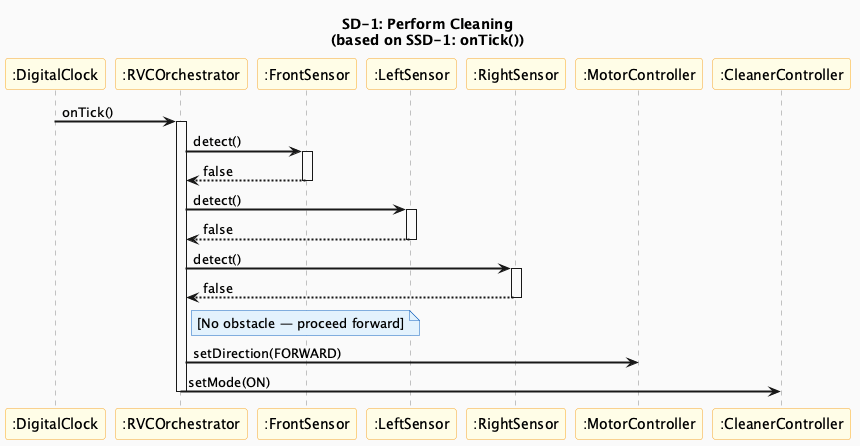
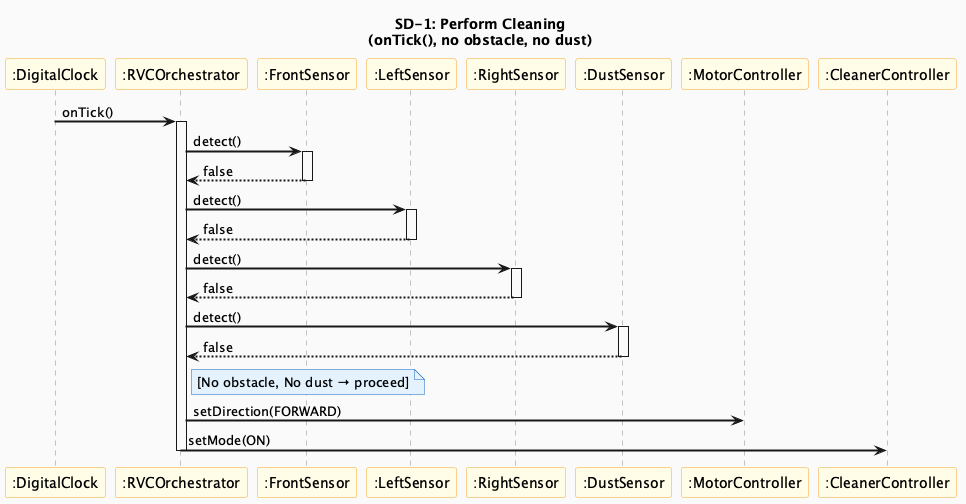
refactor(ooa/ood/ooi): Change dust detection to polling in onTick() (Option A)
[OOA]
- System Operations: onDustDetected 제거 (external actor 아님)
  → onTick(), onFrontDetected() 2개만 유지
- SSD-4: DustSensor Actor → DigitalClock Actor로 변경
  (내부 checkDustSensor() self-call 구조)
- Traceability: UC-4 → onTick() 내부 poll로 수정

[OOD]
- class-diagram: onDustDetected public→private, DustSensor reads 관계 복원
- sequence-diagrams: SD-1에 DustSensor poll 추가, SD-4를 onTick() 내부 흐름으로 재설계
- 이미지 재생성: SD1, SD4, ClassDiagram

[OOI]
- RVCOrchestrator.h: DustSensor 멤버 복원, onDustDetected private으로 변경
- RVCOrchestrator.cpp: onTick()에서 DustSensor poll 후 dust==true면 onDustDetected() 호출

Changed region(s): [[0.0, 0.0291, 0.9977, 0.991]]

diff --git a/docs/vibe-coding/04-ooi/code/src/RVCOrchestrator.cpp b/docs/vibe-coding/04-ooi/code/src/RVCOrchestrator.cpp
@@ -1,23 +1,29 @@
 #include "RVCOrchestrator.h"
 
 RVCOrchestrator::RVCOrchestrator(FrontSensor& fs, LeftSensor& ls, RightSensor& rs,
-                                 MotorController& mc, CleanerController& cc)
-    : frontSensor(fs), leftSensor(ls), rightSensor(rs), motor(mc), cleaner(cc)
+                                 DustSensor& ds, MotorController& mc, CleanerController& cc)
+    : frontSensor(fs), leftSensor(ls), rightSensor(rs),
+      dustSensor(ds), motor(mc), cleaner(cc)
 {}
 
-// SD-1: onTick() — FrontSensor, LeftSensor, RightSensor 직접 호출
+// SD-1 / SD-4: onTick() — 모든 센서 poll, 상태에 따라 분기
 void RVCOrchestrator::onTick() {
     bool front = frontSensor.detect();
     bool left  = leftSensor.detect();
     bool right = rightSensor.detect();
+    bool dust  = dustSensor.detect();
 
     if (!front && !left && !right) {
         motor.setDirection(Direction::FORWARD);
         cleaner.setMode(CleanMode::ON);
+
+        if (dust) {
+            onDustDetected();  // SD-4: 먼지 감지 시 내부 처리
+        }
     }
 }
 
-// SD-2 / SD-3: onFrontDetected() — LeftSensor, RightSensor 직접 호출로 분기
+// SD-2 / SD-3: onFrontDetected() — 장애물 회피 분기
 void RVCOrchestrator::onFrontDetected() {
     bool left  = leftSensor.detect();
     bool right = rightSensor.detect();
@@ -61,8 +67,7 @@ void RVCOrchestrator::avoidAllObstacles() {
 }
 
 // SD-4: onDustDetected() — 파워업 후 polling으로 만료 확인, ON 복귀
-void RVCOrchestrator::onDustDetected(bool val) {
-    if (!val) return;
+void RVCOrchestrator::onDustDetected() {
     cleaner.setMode(CleanMode::UP);
 
     while (!cleaner.update()) {

diff --git a/docs/vibe-coding/04-ooi/code/include/RVCOrchestrator.h b/docs/vibe-coding/04-ooi/code/include/RVCOrchestrator.h
@@ -2,6 +2,7 @@
 #include "FrontSensor.h"
 #include "LeftSensor.h"
 #include "RightSensor.h"
+#include "DustSensor.h"
 #include "MotorController.h"
 #include "CleanerController.h"
 
@@ -10,17 +11,18 @@ private:
     FrontSensor&       frontSensor;
     LeftSensor&        leftSensor;
     RightSensor&       rightSensor;
+    DustSensor&        dustSensor;
     MotorController&   motor;
     CleanerController& cleaner;
 
+    void onDustDetected();
     void avoidFrontObstacle();
     void avoidAllObstacles();
 
 public:
     RVCOrchestrator(FrontSensor& fs, LeftSensor& ls, RightSensor& rs,
-                    MotorController& mc, CleanerController& cc);
+                    DustSensor& ds, MotorController& mc, CleanerController& cc);
 
     void onTick();
     void onFrontDetected();
-    void onDustDetected(bool val);
 };
